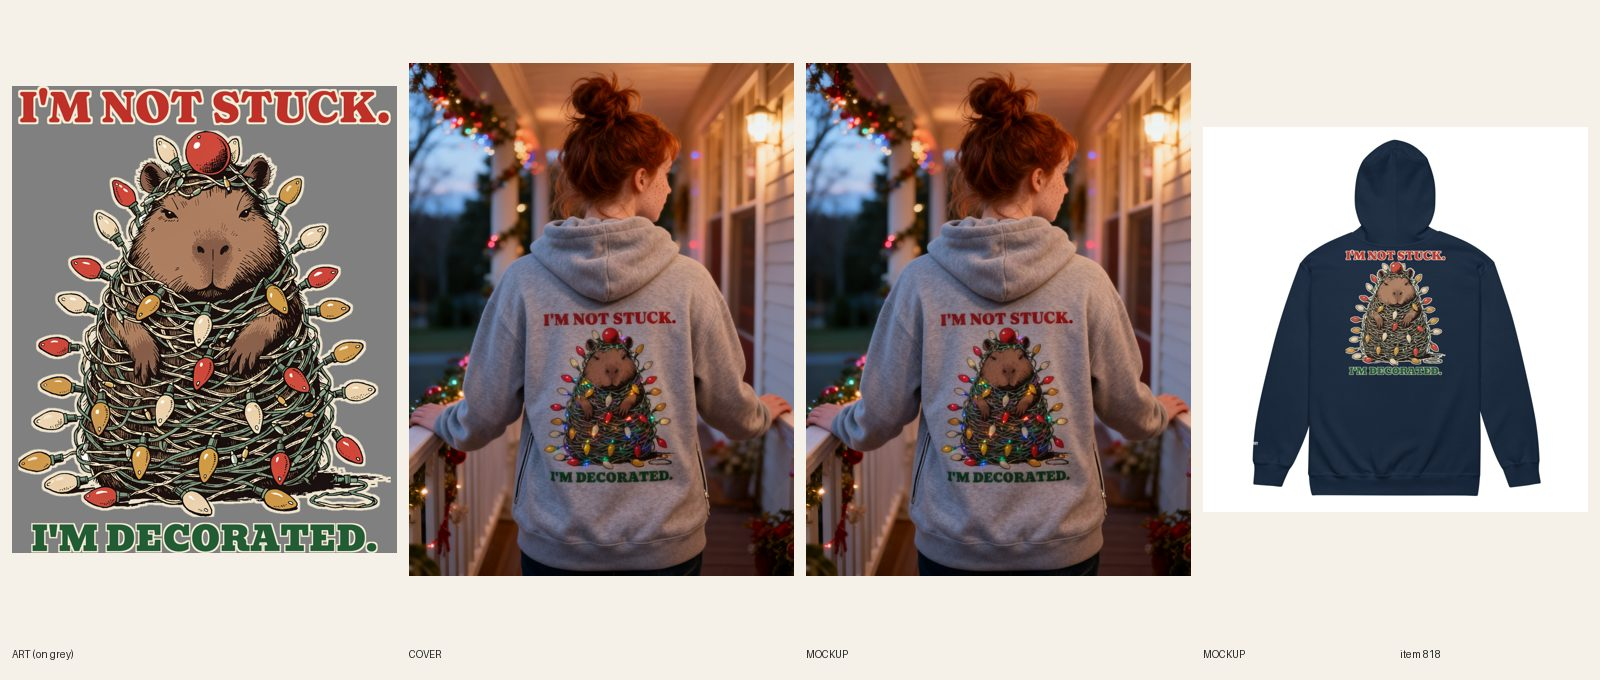
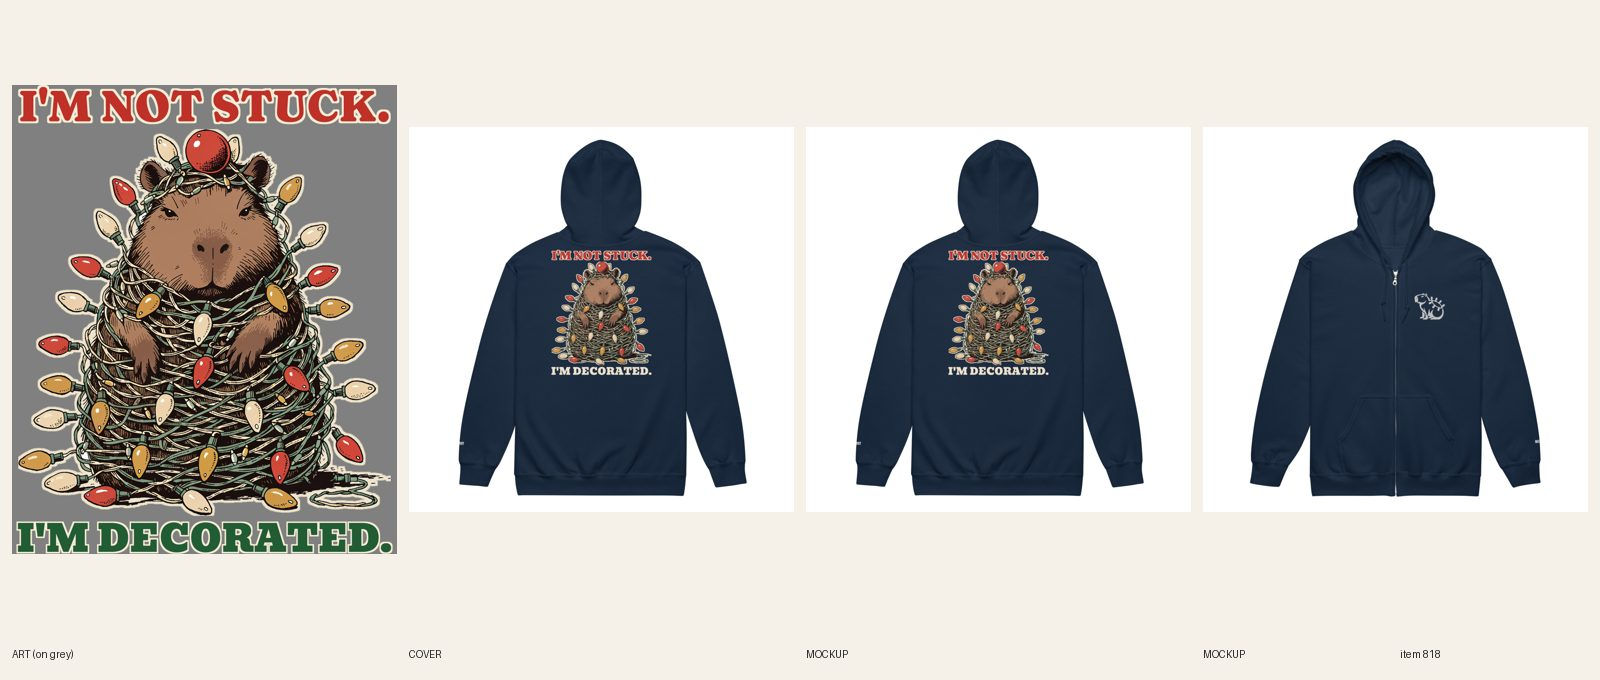
[C] review 818 redo round 2 (punch width, Navy punch file, cover retired)
Claude-Session: https://claude.ai/code/session_01SCArfZ8derTSnP9ReWDDat

diff --git a/docs/pipeline/818-zip-standard-capybara-christmas.md b/docs/pipeline/818-zip-standard-capybara-christmas.md
@@ -1,4 +1,4 @@
-status: BUILDING [C] 2026-10-21T08:55Z
+status: REVIEW
 lane: C
 type: redo
 id: 818
@@ -28,3 +28,4 @@ push: zip
   1. R3.7.8: on the Navy back mockup I'M DECORATED. is about two thirds of I'M NOT STUCK.'s width. Set the punch at least as wide as the headline ($0 re-layout).
   2. R5.3.8: the dark green I'M DECORATED. on Navy leans on a thin cream keyline and reads weak at phone size. Give Navy its own file with the punch in cream or mustard fill (the way #817 swapped its headline ink).
   3. R6.8 cover: the hoodie in the cover has two zipper slits low on the back (you flagged them): that is a different garment, not the 18600, and the model turned the printed bulbs into glowing lights. Both mean a new cover anyway after fix 1 (one AI try with the new Navy or Ash back mockup as --design, 'plain back panel, no pockets, no zips on the back, printed bulbs flat ink'); if it fails, use the Printful back mockup and log it.
+- 2026-10-21 09:45 UTC builder [C]: REDO round 2, REVIEW. 1. R3.7.8/7h: re-laid the back with scripts/c-relayout.py: headline I'M NOT STUCK. 2665 px / punch I'M DECORATED. 2479 px before (93.0% by the print file; the director read two thirds off the mockup) -> 2692 px now (101.0% of the headline, and taller); canvas 2754 x 3355. 2. R5.3.8: Navy gets its own back file with the punch in solid cream and its keyline swapped to navy (1091006069); Ash keeps dark green with the cream keyline (1091006015). Re-synced 12/12 (Ash 6 + Navy 6): chest 1091005926 (Ash, navy thread) / 1091005808 (Navy, white thread), wrist 1091005956 / 1091005837, verified from GET /sync/products. New Navy and Ash back mockups replaced in place on the Shopify product; Story ink sentence updated (green on Ash, cream on Navy). 3. Cover: the porch cover (two side slits, glowing bulbs) is retired (handle added to retired-covers.json) and no new AI try was possible because fal is out of balance (storage 403), so image 1 is the Printful back mockup; registry 1002 stays USED. fal $0.

diff --git a/docs/intake-log.md b/docs/intake-log.md
@@ -8,6 +8,7 @@
 2026-10-21 08:47 UTC — [H] Helper run: Telegram inbox empty (0 updates, nothing to log). Audit: 0 scripted ERRORs, 123 WARN (polish, left as is); cohesion-audit.md committed. Fixed a missing esbuild by running npm ci (the audit could not run without it). Category check: 0 products without a Shopify category. Freshness: womens-chihuahua-cold-since-birth-zip-hoodie, mens-papa-has-a-spot-wont-say-where-camo-hoodie, mens-catfish-caught-something-ugly-kept-it-anyway-camo-hoodie all 200. Stuck work: none (lane B lock 07:28, newest BUILDING #839 at 08:03). Daily summary not due (before 12:00 UTC). Lock released.
 2026-10-21 08:35 UTC — [E] Builder run end: #822 AOP pink camo zip built to REVIEW. fal wallet exhausted again (storage 403), so every other lane E item (all new art: #723 #745 #748 #749 #751 #752 #827 #836; #851 PARKED, #852-#858 gated on it) waits for a top-up. Lock released.
 RUNNING lane C since 2026-10-21 08:27 UTC
+2026-10-21 09:45 UTC — [C] Builder run: REDO #818 Capybara zip round 2 (punch re-set to 101%, Navy cream punch file, bad cover retired), re-synced 12/12, REVIEW. fal $0.
 2026-10-21 09:25 UTC — [C] Builder run: REDO #817 Baseball Mom zip round 2 (punch re-set to 101%, sheet fixed, wrist word logged, old cover retired), re-synced 12/12, REVIEW. fal $0.
 2026-10-21 09:25 UTC — [C] Builder run: REDO #816 Army Golf zip round 2 (punch re-set to 101% of the headline, Navy cream punch file), re-synced 12/12, REVIEW. fal $0.
 2026-10-21 08:55 UTC — [E] REVIEW #822 Women's Camo Blending In Was Never the Plan. All-Over Print Zip Hoodie built to REVIEW (DRAFT 15371716165936, 11/11 sizes on #717 files 1090995228/231/234, punch 4304 vs headline 3607 px, Printful back mockup cover, fal wallet empty). fal $0.04.
